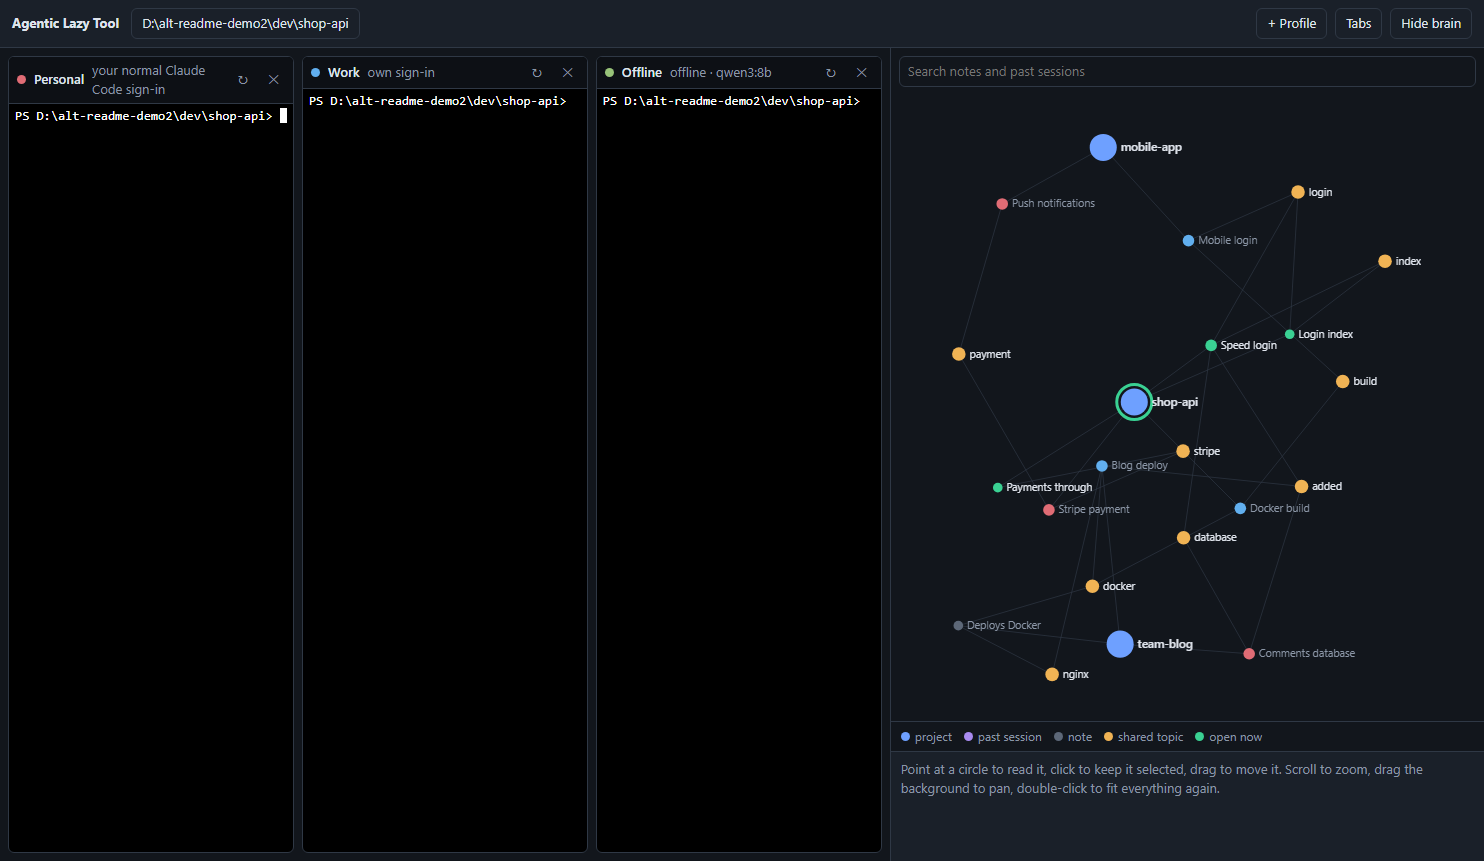
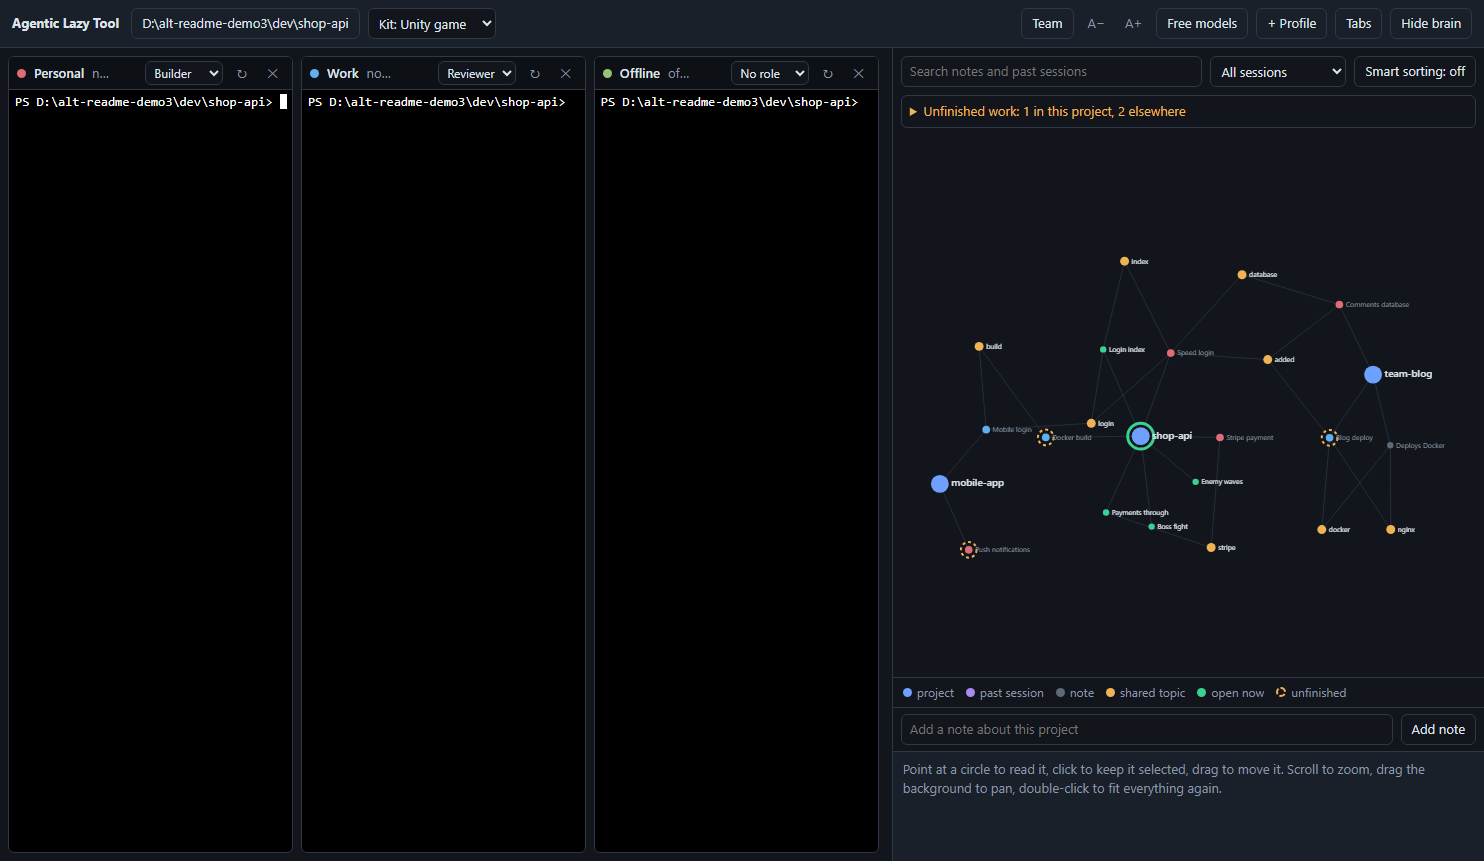
Version 0.5.0: project website, docs for roles, kits, team memory and search by meaning

diff --git a/docs/index.html b/docs/index.html
@@ -1,0 +1,111 @@
+<!doctype html>
+<html lang="en">
+<head>
+<meta charset="utf-8">
+<meta name="viewport" content="width=device-width, initial-scale=1">
+<title>Agentic Lazy Tool: Claude Code terminals with a shared brain</title>
+<meta name="description" content="A free, open-source desktop app that puts your Claude Code terminals side by side and gives them a shared local memory built from your past sessions.">
+<style>
+  :root { --bg:#0f1318; --panel:#171d25; --text:#e6eaf0; --dim:#9aa5b5; --line:#2b3442; --accent:#6ea0ff; --green:#3ad193; --amber:#f0b354; }
+  @media (prefers-color-scheme: light) {
+    :root { --bg:#f7f8fa; --panel:#ffffff; --text:#18202b; --dim:#5b6676; --line:#dde2e9; --accent:#2f6fed; --green:#12885a; --amber:#a86a09; }
+  }
+  * { box-sizing:border-box; }
+  body { margin:0; background:var(--bg); color:var(--text); font:16px/1.6 system-ui, -apple-system, "Segoe UI", sans-serif; }
+  a { color:var(--accent); }
+  .wrap { max-width:1040px; margin:0 auto; padding:0 20px; }
+  header { padding:20px 0; display:flex; flex-wrap:wrap; align-items:center; gap:8px 16px; }
+  header strong { font-size:18px; }
+  header nav { margin-left:auto; display:flex; flex-wrap:wrap; gap:6px 18px; font-size:15px; }
+  @media (max-width: 560px) { header nav { margin-left:0; width:100%; } .button { width:100%; text-align:center; } }
+  header nav a { color:var(--dim); text-decoration:none; }
+  header nav a:hover { color:var(--text); }
+  .hero { padding:48px 0 32px; }
+  h1 { font-size:clamp(30px, 5vw, 48px); line-height:1.15; margin:0 0 16px; letter-spacing:-0.02em; text-wrap:balance; }
+  .lead { font-size:19px; color:var(--dim); max-width:680px; margin:0 0 28px; }
+  .actions { display:flex; flex-wrap:wrap; gap:12px; align-items:center; }
+  .button { display:inline-block; padding:12px 22px; border-radius:8px; text-decoration:none; font-weight:600; border:1px solid var(--line); color:var(--text); }
+  .button.primary { background:var(--accent); border-color:var(--accent); color:#fff; }
+  .small { font-size:14px; color:var(--dim); margin-top:12px; }
+  .shot { margin:36px 0 8px; border:1px solid var(--line); border-radius:10px; overflow:hidden; background:#000; }
+  .shot img { display:block; width:100%; height:auto; }
+  h2 { font-size:26px; margin:56px 0 8px; letter-spacing:-0.01em; }
+  .sub { color:var(--dim); margin:0 0 24px; max-width:700px; }
+  .grid { display:grid; grid-template-columns:repeat(auto-fit, minmax(280px, 1fr)); gap:16px; }
+  .card { background:var(--panel); border:1px solid var(--line); border-radius:10px; padding:18px 20px; }
+  .card h3 { margin:0 0 6px; font-size:17px; }
+  .card p { margin:0; color:var(--dim); font-size:15px; }
+  ol.steps { padding-left:22px; max-width:720px; }
+  ol.steps li { margin-bottom:10px; }
+  .note { border-left:3px solid var(--amber); padding:10px 16px; background:var(--panel); border-radius:0 8px 8px 0; max-width:760px; }
+  code { background:var(--panel); border:1px solid var(--line); border-radius:4px; padding:1px 6px; font-size:14px; }
+  footer { margin:64px 0 0; padding:24px 0 40px; border-top:1px solid var(--line); color:var(--dim); font-size:14px; }
+</style>
+</head>
+<body>
+<div class="wrap">
+  <header>
+    <strong>Agentic Lazy Tool</strong>
+    <nav>
+      <a href="#features">Features</a>
+      <a href="#start">Get started</a>
+      <a href="#privacy">Privacy</a>
+      <a href="https://github.com/erlruben/agentic-lazy-tool">GitHub</a>
+    </nav>
+  </header>
+
+  <section class="hero">
+    <h1>One window for your Claude Code work, with a memory that never forgets.</h1>
+    <p class="lead">Run your Claude Code terminals side by side and connect them to a shared local brain, built from your past sessions and the notes Claude saves as it works. Every new session picks up where the last one left off.</p>
+    <div class="actions">
+      <a class="button primary" href="https://github.com/erlruben/agentic-lazy-tool/releases/latest/download/AgenticLazyTool-Setup.exe">Download for Windows</a>
+      <a class="button" href="https://github.com/erlruben/agentic-lazy-tool">View the source</a>
+    </div>
+    <p class="small">Free and open source (MIT). Requires <a href="https://docs.claude.com/en/docs/claude-code">Claude Code</a>. macOS and Linux run from source.</p>
+    <div class="shot"><img src="screenshot.png" alt="The app window: three Claude Code terminals on the left and a network graph of projects, sessions and notes on the right" width="1484" height="861"></div>
+    <p class="small">The screenshot uses made-up demo projects.</p>
+  </section>
+
+  <section id="features">
+    <h2>What it does</h2>
+    <p class="sub">Claude Code starts every session from zero. This app keeps what you learned yesterday within reach today.</p>
+    <div class="grid">
+      <div class="card"><h3>Terminals side by side</h3><p>Up to six Claude Code terminals in a grid or tabs, each with its own sign-in, for example personal and work.</p></div>
+      <div class="card"><h3>A shared brain</h3><p>Every terminal reads and writes one local memory. A fact one session learns, the next session knows.</p></div>
+      <div class="card"><h3>Past sessions become memory</h3><p>The brain keeps each session's title, project, prompts and topics, and shows them as a live graph you can search.</p></div>
+      <div class="card"><h3>Terminals that work together</h3><p>Give them roles such as Builder, Reviewer and Tester. They can read each other and hand work back and forth.</p></div>
+      <div class="card"><h3>Unfinished work, found for you</h3><p>An optional local model labels each session and lists what was left unfinished, with one click to resume.</p></div>
+      <div class="card"><h3>Kits for web, mobile and games</h3><p>The app recognises website, mobile, Unity and Godot projects and tells Claude how to work in each.</p></div>
+      <div class="card"><h3>Team memory</h3><p>Write a project's notes to a file in its repository. Teammates who open the project are offered them.</p></div>
+      <div class="card"><h3>Keep going past a limit</h3><p>A free-models terminal runs on your own free API keys, kept in a container so it only sees what you hand it.</p></div>
+      <div class="card"><h3>Works offline</h3><p>An Ollama profile runs Claude Code on a model on your own computer, with the same brain.</p></div>
+    </div>
+  </section>
+
+  <section id="start">
+    <h2>Get started</h2>
+    <ol class="steps">
+      <li>Install <a href="https://docs.claude.com/en/docs/claude-code">Claude Code</a> if you do not have it.</li>
+      <li><a href="https://github.com/erlruben/agentic-lazy-tool/releases/latest/download/AgenticLazyTool-Setup.exe">Download the installer</a> and run it. It installs for your user only.</li>
+      <li>Open the app and choose your project folder. The first terminal starts Claude Code with your normal sign-in.</li>
+      <li>Work as usual. Ask Claude what it remembers about the project, or tell it to remember a decision.</li>
+    </ol>
+    <p class="note">Windows may show "Windows protected your PC" because the app is new and not code-signed. Click <b>More info</b>, then <b>Run anyway</b>.</p>
+  </section>
+
+  <section id="privacy">
+    <h2>Private by design</h2>
+    <p class="sub">The app has no server and no account. Your sessions, notes, settings and keys exist only on your computer, and nothing is sent to the authors or to other users.</p>
+    <div class="grid">
+      <div class="card"><h3>Local memory</h3><p>The brain is plain files in your user folder. Secrets such as API keys are masked before anything is stored.</p></div>
+      <div class="card"><h3>Your sign-in stays with Claude Code</h3><p>The app never reads or stores your Claude login. Claude Code handles it, as usual.</p></div>
+      <div class="card"><h3>You choose what an AI sees</h3><p>Whatever a terminal works on goes to that terminal's AI provider. The free-models terminal is contained by default, and Ollama keeps everything on your machine.</p></div>
+    </div>
+  </section>
+
+  <footer>
+    Agentic Lazy Tool is open source under the MIT license. <a href="https://github.com/erlruben/agentic-lazy-tool">Source and documentation on GitHub</a>. Claude and Claude Code are products of Anthropic; this project is independent and not affiliated with Anthropic.
+  </footer>
+</div>
+</body>
+</html>

diff --git a/README.md b/README.md
@@ -16,7 +16,11 @@ Agentic Lazy Tool puts your Claude Code terminals side by side in one window and
 - **See your brain:** a live network beside the terminals shows your projects, past sessions (coloured by profile), notes and the topics that link them. It arranges itself so nothing overlaps and zooms to fit as it grows.
 - **Terminals that work together:** ask one terminal's Claude to read another terminal, hand it a task, or discuss an approach with it. For example: "ask the Work terminal to review this change and report back".
 - **Resume anything:** click a past session and press **Resume** to continue it in the right terminal and folder.
-- **Search everything:** find any earlier decision or session across all projects.
+- **Search everything:** find any earlier decision or session across all projects, by words or, with a small local model, by meaning.
+- **Roles:** make one terminal the Builder, another the Reviewer or Tester, and they hand work to each other.
+- **Project kits:** the app recognises website, mobile, Unity and Godot projects and gives Claude the right working rules for each.
+- **Team memory:** write a project's notes to a file in the project so teammates can import them.
+- **Unfinished work list:** what was left unfinished, with one click to resume.
 - **Smart sorting (optional):** a local model labels every session as bug fix, feature, refactor, setup and deploy, tests, docs or question, and spots work that was left unfinished. Claude is told about unfinished work first, and the graph can show only unfinished sessions or one kind of work.
 - **Free models when you hit a limit:** a special terminal runs Claude Code on free AI providers (Gemini, OpenRouter, Cerebras, Groq) with your own free keys. It is kept in a container, so the free AI only sees what you hand it. When a Claude profile reaches its usage limit, a bar offers to open it.
 - **Works offline:** an Ollama profile runs Claude Code on a model on your own computer, with the same brain, when there is no internet.
@@ -25,6 +29,8 @@ Agentic Lazy Tool puts your Claude Code terminals side by side in one window and
 ![Three Claude Code profiles side by side with the brain graph](docs/screenshot.png)
 
 *The screenshot uses made-up demo projects.*
+
+Website: https://erlruben.github.io/agentic-lazy-tool/
 
 ## Install (Windows)
 
@@ -45,6 +51,40 @@ Windows may show "Windows protected your PC" because the app is new and not code
 An **Offline** badge appears in the top bar when Claude cannot be reached; Claude profiles then show "needs internet".
 
 Buttons: **↻** restarts a terminal, **✕** removes a profile (its sign-in and past sessions stay on disk), **Tabs/Grid** switches the layout, **Hide brain** gives the terminals the whole window.
+
+### Roles
+
+Each terminal's title bar has a role menu: **Builder**, **Reviewer** or **Tester**. A role is a standing instruction given to Claude Code when the terminal starts:
+
+- The **Builder** writes the code, then asks a Reviewer or Tester terminal to check it and fixes what they report.
+- The **Reviewer** reads the changes it is asked about and answers with problems and fixes; it does not rewrite the code.
+- The **Tester** runs and writes tests and reports exactly what failed.
+
+A typical setup is Builder in one terminal and Reviewer in another: tell the Builder what to make, and it gets its work reviewed without you carrying messages between them. Changing a role takes effect when that terminal restarts.
+
+### Project kits
+
+Next to the folder button is the **Kit** menu. The app looks at the files in your project folder and picks a kit: **Website**, **Mobile app**, **Unity game**, **Godot game**, or **General**. A kit is a short set of working rules for that kind of project. The Unity kit, for example, tells Claude to check the Unity and package versions before using an API, never to hand-edit scene, prefab or meta files, and to say what to do in the Editor to test a change. You can pick a different kit by hand; the choice is remembered per project and applies when a terminal starts.
+
+### Team memory
+
+Click **Team** to share what the brain knows about a project:
+
+- **Write the share file** saves the project's notes and the titles of unfinished work to `.alt-brain.json` in the project folder. Commit it with the project.
+- A teammate who opens the project in this app sees a bar offering the notes they do not have yet. **Import** adds them to their own brain.
+- Conversations and prompts are never included, and secrets are masked. Anyone who can read the project can read the file, so do not share notes you want kept private.
+
+### Notes and unfinished work
+
+- Type in **Add a note about this project** under the graph to save a note yourself. Click a note in the graph and press **Delete this note** to remove it. The same fact is not stored twice.
+- With Smart sorting on, **Unfinished work** above the graph lists the sessions that ended unfinished, this project's first, each with a **Resume** button.
+
+### Comfort
+
+- **A−** and **A+** change the terminal text size.
+- Drag the line between the terminals and the brain to resize the brain panel.
+- **Ctrl+Alt+1** to **Ctrl+Alt+6** switch to a terminal; **Ctrl+Alt+B** shows or hides the brain.
+- When a newer version is published, a bar at the top offers the download page. The check asks GitHub only for the latest version number.
 
 ### Terminals working together
 
@@ -95,6 +135,7 @@ How it works and what to expect:
 - Claude Code in that terminal talks to a small bridge inside the app, which translates each request for the free provider. Providers are tried from top to bottom, and the next one takes over when one is rate limited, out of quota or failing.
 - Free models are weaker and slower than Claude, and their free tiers are limited. Claude Code sends long instructions with every request, which some free tiers (Groq's in particular) cannot fit.
 - Model names and free tiers change often. If **Test keys** reports a model problem, type a current model name from the provider's site into the model box.
+- **Your own provider:** the last row takes any service with an OpenAI-compatible API (address, optional key, model), including one running on your own computer or network. It is tried after the others.
 - Your keys are encrypted with your operating system's own protection and stored only on your computer. They are sent only to their own provider.
 - Whatever reaches that terminal goes to the free provider that answers, under that provider's terms, not to Anthropic. With the container on, that is only what you type, paste or send it.
 
@@ -150,6 +191,7 @@ Smart sorting is off until you turn it on with the **Smart sorting** button abov
 | Smart sorting labels | `~/.agentic-lazy-tool/brain/labels.json`, model in `~/.agentic-lazy-tool/models/` or the folder you chose | each session's kind of work and whether it was finished |
 
 - Notes and sessions are linked by the words they share, which is how the topics in the graph appear. It is a searchable memory, not a trained neural network.
+- **Search by meaning:** if [Ollama](https://ollama.com/download) is running with the `nomic-embed-text` model (`ollama pull nomic-embed-text`, about 270 MB), search and Claude's `recall` also find things by meaning, so "how do we ship the site" finds the deploy session. It runs on your computer. Without it, search matches words.
 - API keys, tokens and `password=...` values are masked before anything is stored.
 - The brain checks for new sessions every 10 seconds while the app is open.
 - To use the brain in a Claude Code you start yourself, run `claude --mcp-config "%USERPROFILE%\.agentic-lazy-tool\brain\mcp.json"`. The file is written the first time the app starts a terminal.

diff --git a/CONTRIBUTING.md b/CONTRIBUTING.md
@@ -29,6 +29,9 @@ printf '#!/bin/sh\nnode scripts/check-secrets.mjs\n' > .git/hooks/pre-commit
 | `src/brain/sessions.ts` | Reads Claude Code session transcripts into the session index |
 | `src/brain/brain.ts` | Search, project summary and the graph |
 | `src/brain/workspace.ts` | Profiles, existing Claude Code folders, and the project folder |
+| `src/brain/kits.ts` | Project kits and terminal roles: the standing instructions and kit detection |
+| `src/brain/share.ts` | Team memory: the share file in the project folder |
+| `src/brain/meaning.ts` | Search by meaning with a local embedding model |
 | `src/brain/launch.ts` | How each profile's Claude Code starts (sign-in or Ollama), internet and Ollama checks |
 | `src/brain/sorting.ts`, `src/brain/sorter.ts` | Smart sorting: the questions asked of Laya, and the background worker |
 | `src/proxy/translate.ts`, `src/proxy/server.ts` | Free models bridge: translates Claude Code's requests for OpenAI-compatible providers, with failover |
@@ -36,6 +39,7 @@ printf '#!/bin/sh\nnode scripts/check-secrets.mjs\n' > .git/hooks/pre-commit
 | `src/main/free.ts` | Free models settings and encrypted API keys |
 | `src/mcp/server.ts` | The brain as an MCP server for Claude Code |
 | `src/test/` | Tests (`node --test`) |
+| `docs/index.html` | The project website (GitHub Pages) |
 
 ## Rules
 
